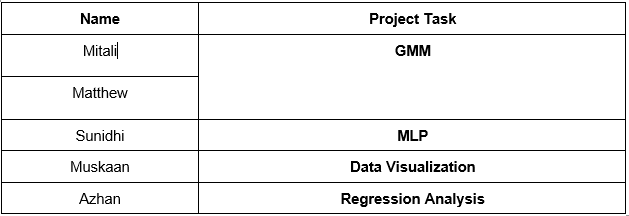
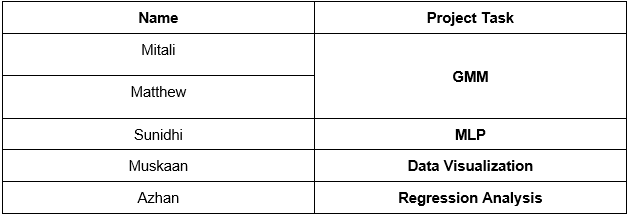
aesthetic changes

diff --git a/docs/index.html b/docs/index.html
@@ -62,10 +62,9 @@ The area under the precision-recall curve (AUPRC) is also a useful performance m
 
 <h2>Timeline</h2>
 <p>https://docs.google.com/spreadsheets/d/1po2iJ1vFaG1CmB4J_Djwdk4p0TJhpWTq/edit#gid=290773380</p>
-<img src = "imgs/timeline.png" alt = "timeline" class = "center" style = "margin-left: 275px;">
-
+<img src = "imgs/timeline.png" alt = "timeline" class = "center" style = "margin-left: auto; margin-right: auto; width: 50%;">
 <h2>Contribution Table</h2>
-<img src="imgs/cont_table.PNG" alt = "contribution table" class = "center" style = "margin-left: 225px;">
+<img src="imgs/cont_table.PNG" alt = "contribution table" class = "center" style = "margin-left: auto; margin-right: auto; width: 50%;">
 
 
 <h2>References</h2>
